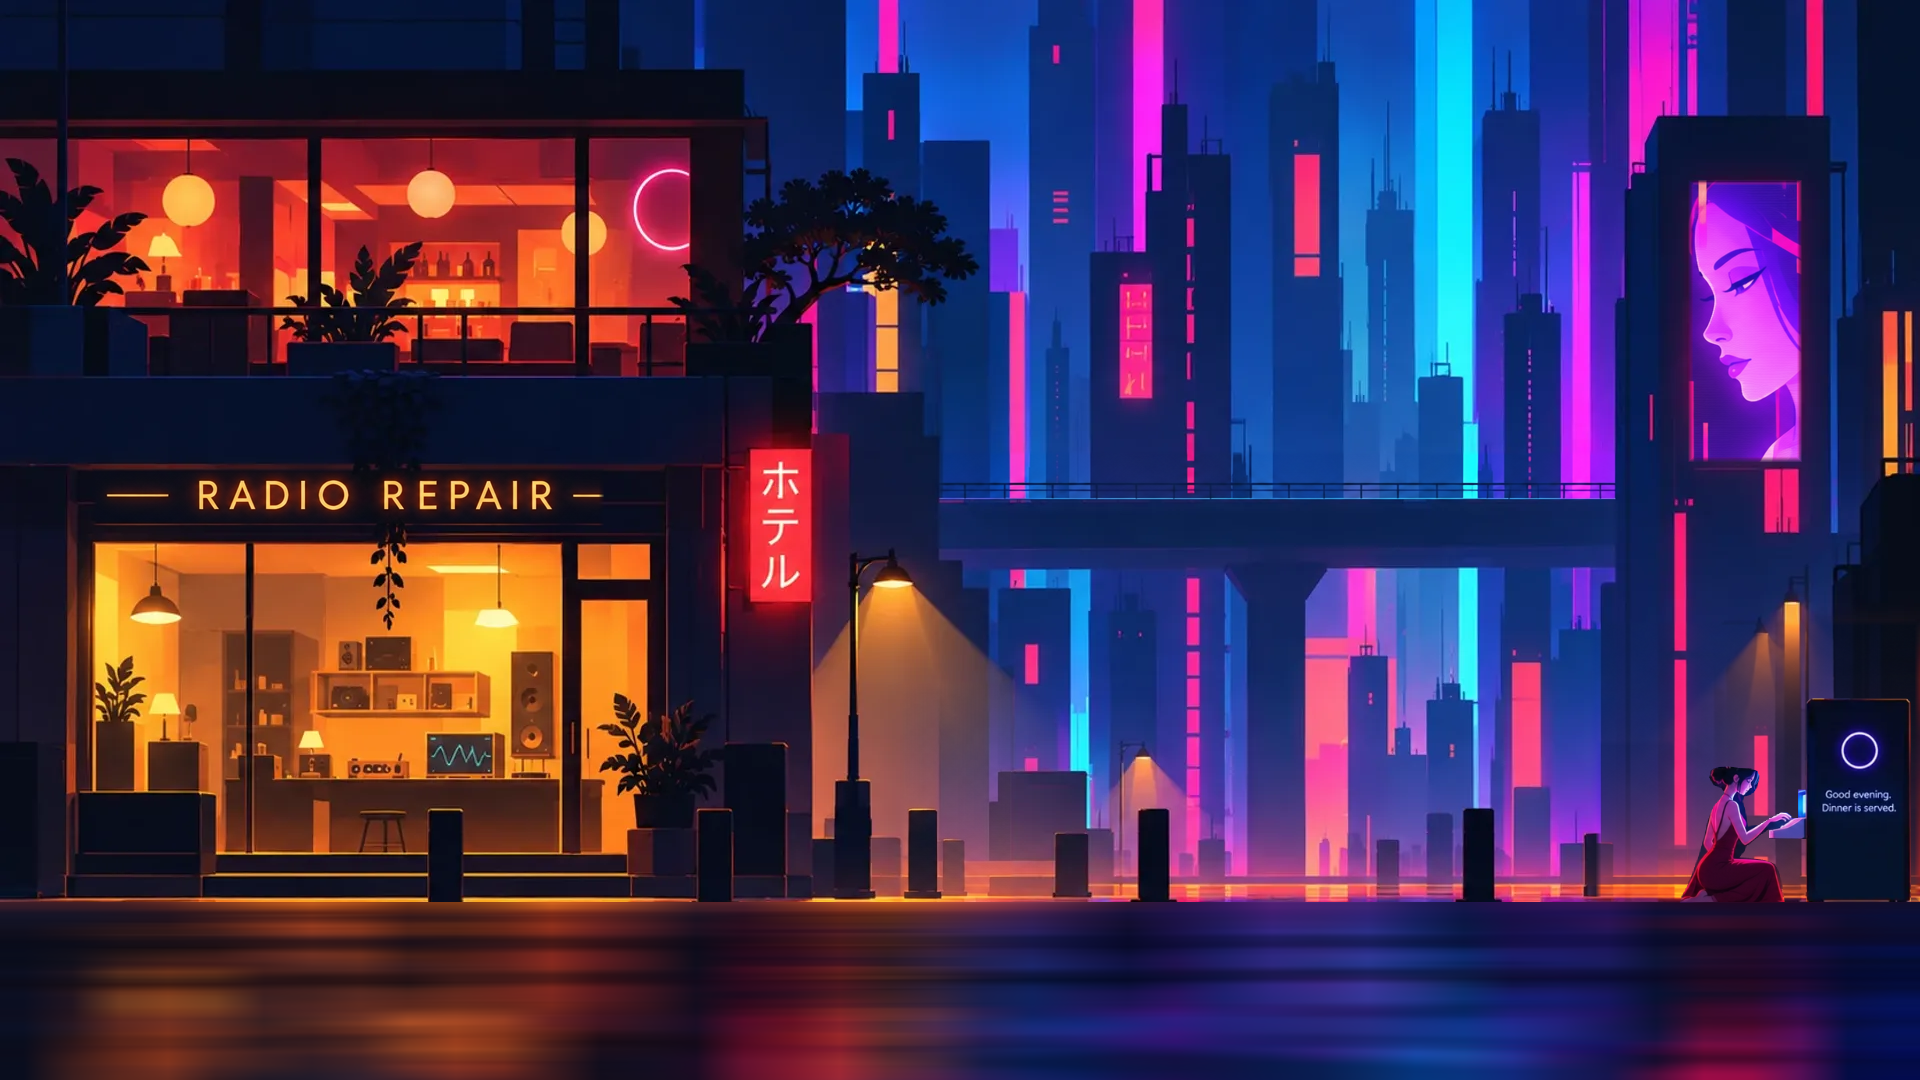
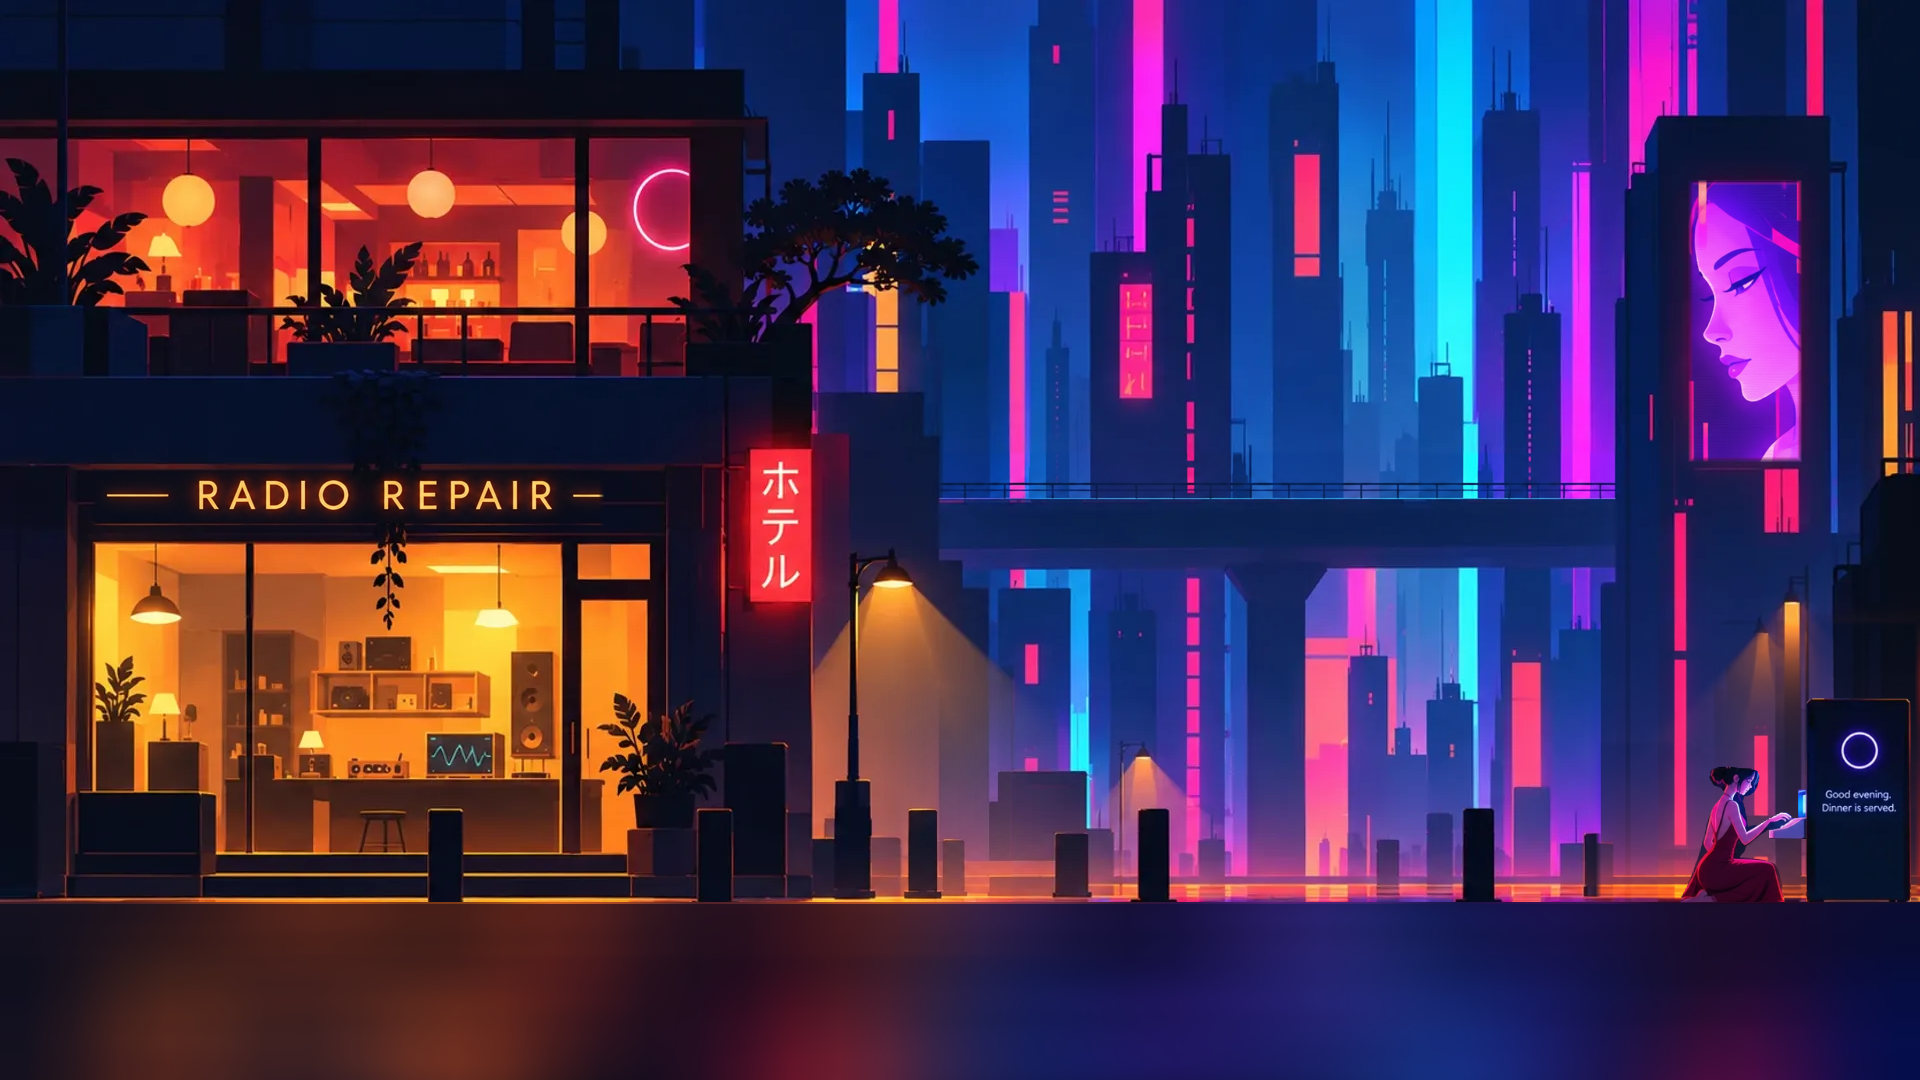
A shiny floor in the Concierge's view, and no lines across the ground
The Concierge's street mirrored too much. Reflections smeared 16 px or more
sideways now make a glossy floor: the set and the people are smudged together
into colour and light, with no mirrored shapes. The street's Concierge view:
strength 0.22, reach 1.4 (the tall city is no longer squeezed into stripes),
streaks 70, diffuse 40. The blur is now one wide Gaussian pass per direction,
from every pixel under each half-resolution pixel (at render scale 2 too), so a
big smudge has no banding.

The horizontal lines in both views were in the painted ground: cleaning out its
painted reflections kept each row's brightness, so the painting's plank lines
stayed as bands. ground now smooths up and down (--smooth, 20 level px); the
street's ground was cleaned again and its layers split again.

diff --git a/src/engine/renderer.ts b/src/engine/renderer.ts
@@ -94,6 +94,9 @@ export interface Frame {
   nShadows?: number;
 }
 
+/** Reflections smudged at least this far sideways (the look's pixels) are a glossy floor: the people are smudged in too. */
+const GLOSSY = 16;
+
 const MAP_ORDER: [MapName, string][] = [
   ['albedo.raw', 'tAlbR'], ['albedo.concierge', 'tAlbC'], ['normal', 'tNrm'], ['normal.concierge', 'tNrmC'], ['material', 'tMat'],
   ['material.concierge', 'tMatC'], ['meta', 'tMeta'], ['glow.raw', 'tGlowR'], ['glow.concierge', 'tGlowC'],
@@ -102,7 +105,7 @@ const MAP_ORDER: [MapName, string][] = [
 export class Renderer {
   readonly gl: GL;
   private geo: ReturnType<typeof createGeometry>;
-  private prog: Record<'sprite' | 'occ' | 'light' | 'comp' | 'bright' | 'blur' | 'dofdown' | 'refldown' | 'streak' | 'final', Program>;
+  private prog: Record<'sprite' | 'occ' | 'light' | 'comp' | 'bright' | 'blur' | 'gauss' | 'dofdown' | 'refldown' | 'streak' | 'final', Program>;
   private t: Record<'gbuf' | 'ao1' | 'ao2' | 'fa' | 'fb' | 'd1' | 'd2' | 'r1' | 'r2' | 'q1' | 'q2' | 'e1' | 'e2' | 'a1' | 'a2', Target>;
   private black: WebGLTexture;
   private q!: Quality;
@@ -137,6 +140,7 @@ export class Renderer {
       blur: createProgram(gl, S.BLUR_FS),
       dofdown: createProgram(gl, S.DOFDOWN_FS),
       refldown: createProgram(gl, S.REFLDOWN_FS),
+      gauss: createProgram(gl, S.GAUSS_FS),
       streak: createProgram(gl, S.STREAK_FS),
       final: createProgram(gl, S.FINAL_FS),
     };
@@ -312,21 +316,23 @@ export class Renderer {
       }
     }
 
-    // the set for its reflections, softened at half resolution: sideways for diffuse ones, up and down for streaks. Each
-    // pass of the shared blur reaches about 6.4 of its pixels each way at most without gaps, so longer ones take more
-    const reflBlur = k.mirrorSet > 0 && (k.reflectStreak > 0 || k.reflectDiffuse > 0);
+    // the set for its reflections, softened at half resolution: sideways for diffuse ones (a glossy floor), up and down for
+    // streaks (a wet street), each a Gaussian whose spread is half the look's pixels. Smudged far enough sideways, the
+    // floor is glossy: the people are smudged into it with everything else instead of mirrored on their own
+    const reflBlur = k.mirrorSet > 0 && (k.reflectStreak > 0 || k.reflectDiffuse > 0), smudge = reflBlur && k.reflectDiffuse >= GLOSSY;
     let refl = t.r1;
     if (reflBlur) {
-      this.pass(this.prog.refldown, t.r1, (pr) => { this.bind(pr, 'tSrc', t.fa.tex[0], 0); this.bind(pr, 'tG3', t.gbuf.tex[3], 1); gl.uniform2f(pr.u.uSrcRes, NW, NH); });
+      this.pass(this.prog.refldown, t.r1, (pr) => {
+        this.bind(pr, 'tSrc', t.fa.tex[0], 0); this.bind(pr, 'tG3', t.gbuf.tex[3], 1);
+        gl.uniform2f(pr.u.uSrcRes, NW * this.rs, NH * this.rs); gl.uniform1f(pr.u.uStep, 2 * this.rs); gl.uniform1f(pr.u.uPeople, smudge ? 1 : 0);
+      });
       let other = t.r2;
       for (const [px, dx, dy] of [[k.reflectDiffuse, 1, 0], [k.reflectStreak, 0, 1]] as const) {
-        // in its own pixels, two level pixels each; passes add up like the spreads of a bell curve
-        const reach = px / 2, n = Math.ceil(reach / 9.6), s = reach / Math.sqrt(Math.max(1, n)) / 6.4;
-        for (let i = 0; i < n; i++) {
-          const from = refl;
-          this.pass(this.prog.blur, other, (pr) => { this.bind(pr, 'tSrc', from.tex[0], 0); gl.uniform2f(pr.u.uDir, dx * s, dy * s); });
-          [refl, other] = [other, refl];
-        }
+        if (px < 1) continue;
+        const from = refl;
+        // half the look's pixels is the spread in level pixels, half again in this target's
+        this.pass(this.prog.gauss, other, (pr) => { this.bind(pr, 'tSrc', from.tex[0], 0); gl.uniform2f(pr.u.uDir, dx, dy); gl.uniform1f(pr.u.uSigma, px / 4); });
+        [refl, other] = [other, refl];
       }
     }
 
@@ -339,7 +345,7 @@ export class Renderer {
       gl.uniform4fv(pr.u.uSteam, f.steam); gl.uniform4f(pr.u.uDrips, ...f.drips); gl.uniform1f(pr.u.uMirror, f.mirror);
       gl.uniform1f(pr.u.uRawFog, k.rawFog); gl.uniform1f(pr.u.uWrap, k.charWrap); gl.uniform1f(pr.u.uRain, k.rain); gl.uniform1f(pr.u.uBakedC, f.baked ?? 0);
       gl.uniform4f(pr.u.uRefl, k.reflect, k.reflectReach, k.reflectStreak, k.mirrorSet);
-      gl.uniform2f(pr.u.uReflSoft, k.reflectDiffuse, k.reflectStreak);
+      gl.uniform2f(pr.u.uReflSoft, k.reflectDiffuse, k.reflectStreak); gl.uniform1f(pr.u.uSmudge, smudge ? 1 : 0);
     });
 
     // bloom at a quarter and an eighth of the resolution

diff --git a/src/engine/shaders.ts b/src/engine/shaders.ts
@@ -262,6 +262,7 @@ uniform sampler2D tA, tG3, tDof;
 uniform sampler2D tRefl;  // the set without its people, blurred for its reflections (when uReflBlur is on)
 uniform float uReflBlur;  // 1: the set's reflection comes from tRefl, soft and streaked; 0: from the sharp picture
 uniform vec2 uReflSoft;   // the look: how far reflections smear sideways and up and down, in level pixels
+uniform float uSmudge;    // 1: a glossy floor, every reflection smudged into colour and light, the people's too
 uniform float uTime, uDof, uView, uRawFog;
 uniform float uWrap;      // the look: how much a character's outline softens into the light around it, and takes it on
 uniform float uRain;      // how hard it rains in raw view, 0 to 1
@@ -316,11 +317,11 @@ void main() {
     // sees tall things in it, squeezed
     vec2 qs = vec2(p.x + rip, max(0.5, GY - (p.y - GY) * uRefl.y)), q = qs;
     float F = -1.0;
-    for (int k = 1; k <= 32; k++) { vec4 ga = T(tG3, vec2(p.x, p.y - float(k) * 3.0)); if (isActor(ga.a) > 0.5) { F = ga.g * uRes.y; break; } }
+    if (uSmudge < 0.5) for (int k = 1; k <= 32; k++) { vec4 ga = T(tG3, vec2(p.x, p.y - float(k) * 3.0)); if (isActor(ga.a) > 0.5) { F = ga.g * uRes.y; break; } }
     bool mine = false;
     if (F > 0.0 && p.y > F) { vec2 qa = vec2(p.x + rip, 2.0 * F - p.y); if (isActor(T(tG3, qa).a) > 0.5) { q = qa; mine = true; } }
     float keep = 1.0;
-    if (!mine && isActor(T(tG3, qs).a) > 0.5) {
+    if (!mine && uSmudge < 0.5 && isActor(T(tG3, qs).a) > 0.5) {
       keep = 0.0;
       for (int j = 1; j <= 4; j++) for (int s = -1; s <= 1; s += 2) { vec2 b = qs + vec2(float(s * j) * 14.0, 0.0); if (keep < 0.5 && isActor(T(tG3, b).a) < 0.5) { q = b; keep = 1.0; } }
     }
@@ -393,14 +394,27 @@ void main() { vec2 base = floor(gl_FragCoord.xy) * 2.0; vec4 acc = vec4(0.0);
   o = acc * 0.25; }`;
 
 /**
- * The set for its reflections, at half the level's resolution: four samples of each two by two level pixels, without the
- * people (they are mirrored around their own feet), premultiplied by how much of the set there is, to be blurred.
+ * The set for its reflections, at half the level's resolution: every pixel of the picture under each of its pixels (two
+ * by two level pixels, four by four at a render scale of 2), premultiplied by how much of it is set. The people are left
+ * out (they are mirrored around their own feet), unless uPeople is 1: then they are smudged into it with the set.
  */
 export const REFLDOWN_FS = HEAD + `
-uniform sampler2D tSrc, tG3; uniform vec2 uSrcRes;
-void main() { vec2 base = floor(gl_FragCoord.xy) * 2.0; vec4 acc = vec4(0.0);
-  for (int j = 0; j < 2; j++) for (int i = 0; i < 2; i++) { vec2 q = (base + vec2(float(i), float(j)) + 0.5) / uSrcRes; float w = 1.0 - isActor(texture(tG3, q).a); acc += vec4(texture(tSrc, q).rgb * w, w); }
-  o = acc * 0.25; }`;
+uniform sampler2D tSrc, tG3; uniform vec2 uSrcRes; uniform float uStep, uPeople;
+void main() { int n = int(uStep + 0.5); vec2 base = floor(gl_FragCoord.xy) * uStep; vec4 acc = vec4(0.0);
+  for (int j = 0; j < 4; j++) for (int i = 0; i < 4; i++) { if (i >= n || j >= n) continue; vec2 q = (base + vec2(float(i), float(j)) + 0.5) / uSrcRes;
+    float w = max(uPeople, 1.0 - isActor(texture(tG3, q).a)); acc += vec4(texture(tSrc, q).rgb * w, w); }
+  o = acc / float(n * n); }`;
+
+/**
+ * A wide Gaussian blur along uDir, sigma uSigma in this target's pixels, in one pass: taps a pixel apart up to a sigma of
+ * 8, further apart beyond, out to three sigmas. For smudging reflections, where the shared blur would take many passes.
+ */
+export const GAUSS_FS = HEAD + `
+uniform sampler2D tSrc; uniform vec2 uDir; uniform float uSigma;
+void main() { vec2 uv = gl_FragCoord.xy / uRes; vec4 s = texture(tSrc, uv); float ws = 1.0, st = max(1.0, uSigma / 8.0);
+  for (int i = 1; i <= 24; i++) { float x = float(i) * st; if (x > 3.0 * uSigma) break; float w = exp(-0.5 * x * x / (uSigma * uSigma)); vec2 off = uDir * x / uRes;
+    s += (texture(tSrc, uv + off) + texture(tSrc, uv - off)) * w; ws += 2.0 * w; }
+  o = s / ws; }`;
 
 /** Anamorphic streaks: a long horizontal blur of the brightest light. */
 export const STREAK_FS = HEAD + `

diff --git a/docs/ASSETS.md b/docs/ASSETS.md
@@ -268,13 +268,18 @@ scene and per view, in the panel's Reflections group: **Reflections** (`reflect`
 (`mirrorSet`), 1 for a painted scene whose ground had its reflections taken out; **Reach up** (`reflectReach`), 1 a
 mirror, more showing taller things squeezed into the ground, as a low camera over a wet street sees them; **Streaks**
 (`reflectStreak`) and **Diffuse** (`reflectDiffuse`), how far the reflections are smeared up and down (a wet street)
-and sideways (polished stone), in pixels: the set is softened at half resolution, the people over their own pixels.
-Live reflections are made from the picture as it is on screen, so they follow each layer's parallax: painted ones
-stayed put while what they reflected slid. The street mirrors its set (reach 3.5): in raw view a wet street in the
-rain (strength 0.9, streaks 28, diffuse 3), in the Concierge's a dry floor of polished stone (strength 0.3, streaks
-12, diffuse 14). Sharp mirrors with ripples broke into horizontal lines; soft ones only waver. `npm run asset -- ground <recipe> --from <y>` takes painted reflections out of a
+and sideways, in pixels: the set is softened at half resolution with a wide Gaussian, the people over their own
+pixels. Smeared 16 pixels or more sideways, the floor is glossy: the people are smudged into it with everything
+else instead of mirrored on their own, and it shows colour and light rather than shapes. Live reflections are made
+from the picture as it is on screen, so they follow each layer's parallax: painted ones stayed put while what they
+reflected slid. The street, in raw view, is a wet street in the rain (strength 0.9, reach 3.5, streaks 28, diffuse
+3); in the Concierge's, a shiny floor of smudged colour and ambience (strength 0.22, reach 1.4, streaks 70, diffuse
+40), reaching up less so the tall city is not squeezed into stripes. Sharp mirrors with ripples broke into
+horizontal lines; soft ones only waver. `npm run asset -- ground <recipe> --from <y>` takes painted reflections out of a
 picture's ground below the line, in both views: each stretch of each row keeps the colour of its darkest pixels,
-smoothed, so the broad pools of light stay and the streaks go. Then split or build again.
+smoothed up and down by `--smooth` (20 level pixels), so the broad pools of light stay and the streaks go, and the
+lines painted across the ground (planks, ripples) too: kept row by row, they had shown as horizontal bands. Then
+split or build again.
 
 In flat art, raw view is as simple as the Concierge's: age and dirt are duller colours and a few simple shapes, never
 texture. The pipeline's description of the raw world says so for `look: vector`, and a recipe's `rawAir` names the
